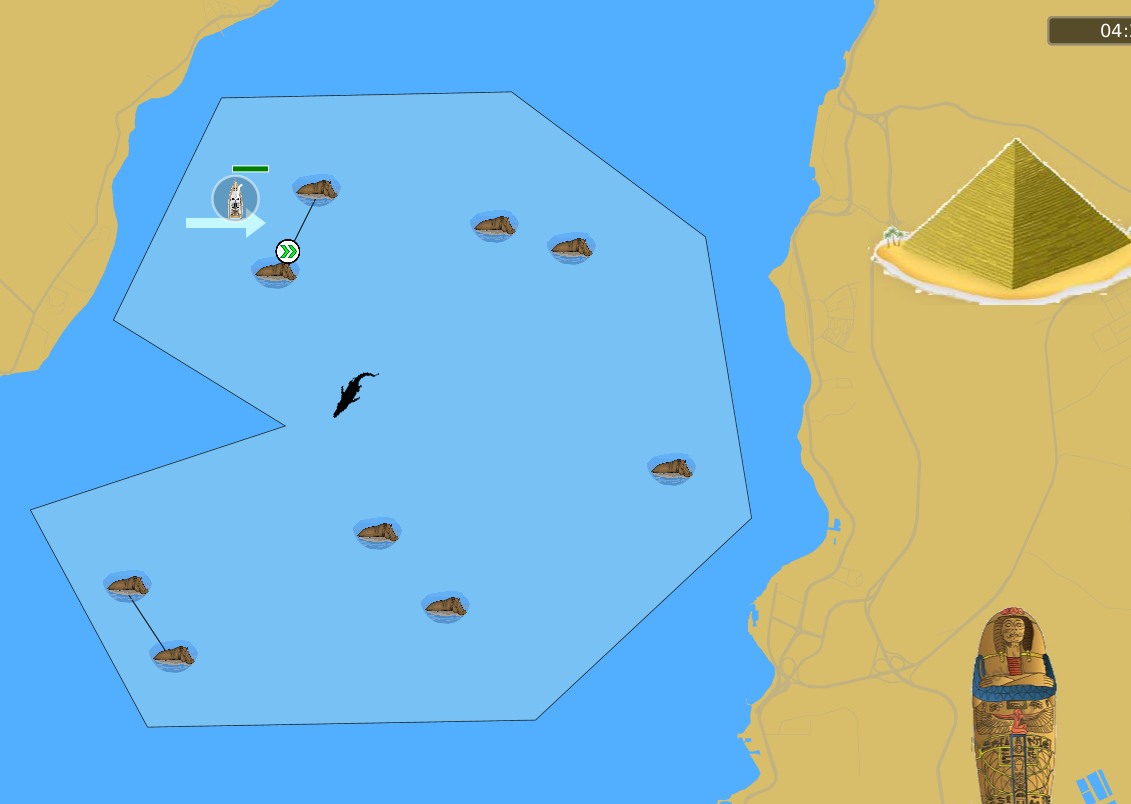
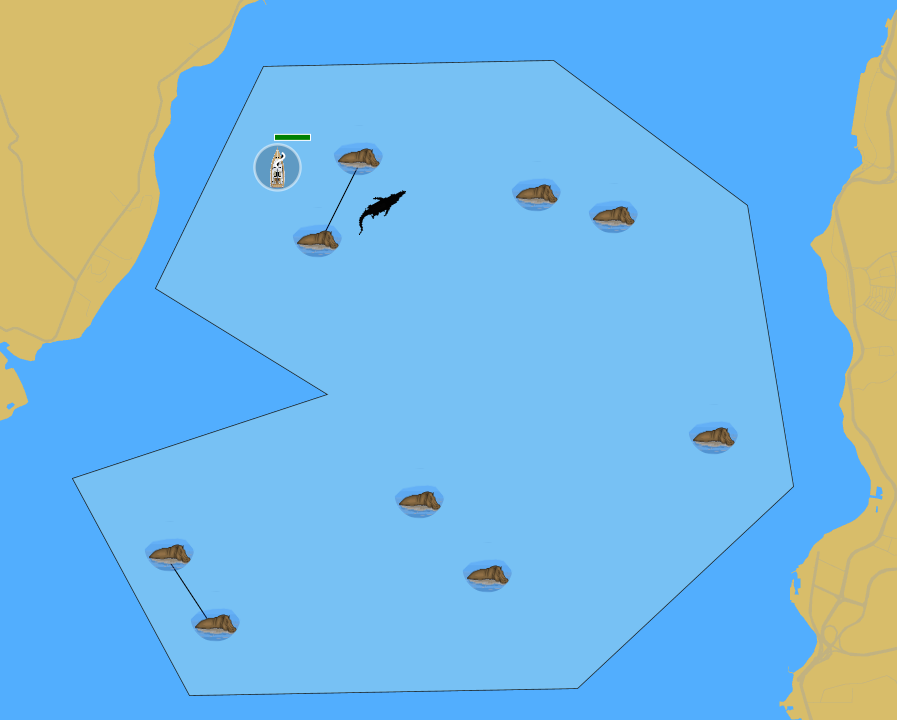
Fix issue #49. All images are shown correctly when running Jar. Replaced some nile decorations with better quality images. Updated nile course theme image in lobby screen.
#story[1315]

diff --git a/Visualizer/src/main/java/Elements/DecorationModel.java b/Visualizer/src/main/java/Elements/DecorationModel.java
@@ -144,9 +144,9 @@ public class DecorationModel extends ImageView {
      */
     private Image getRandomNileImage() {
         ArrayList<String> imagePaths = new ArrayList<>();
-        imagePaths.add("images/nile/mummy.png");
+        imagePaths.add("images/nile/egypt.png");
+        imagePaths.add("images/nile/phar.png");
         imagePaths.add("images/nile/pyramid.png");
-        imagePaths.add("images/nile/sphinx.png");
         Random random = new Random();
         String chosenPath = imagePaths.get(random.nextInt(imagePaths.size()));
         return new Image(getClass().getClassLoader().getResource(chosenPath).toString());

diff --git a/Visualizer/src/main/java/Elements/GuideArrow.java b/Visualizer/src/main/java/Elements/GuideArrow.java
@@ -24,7 +24,7 @@ public class GuideArrow extends Polygon {
      * @param startAngle double, the angle which the arrow points initially
      */
     public GuideArrow(Color color, Double startAngle) {
-
+        this.setVisible(false);
         double arrowLength = -60; // default arrow points vertically in the -y direction (upwards)
         double arrowHeadLength = -20;
         double offsetFromOrigin = -1 * (arrowLength + arrowHeadLength) + 30;
